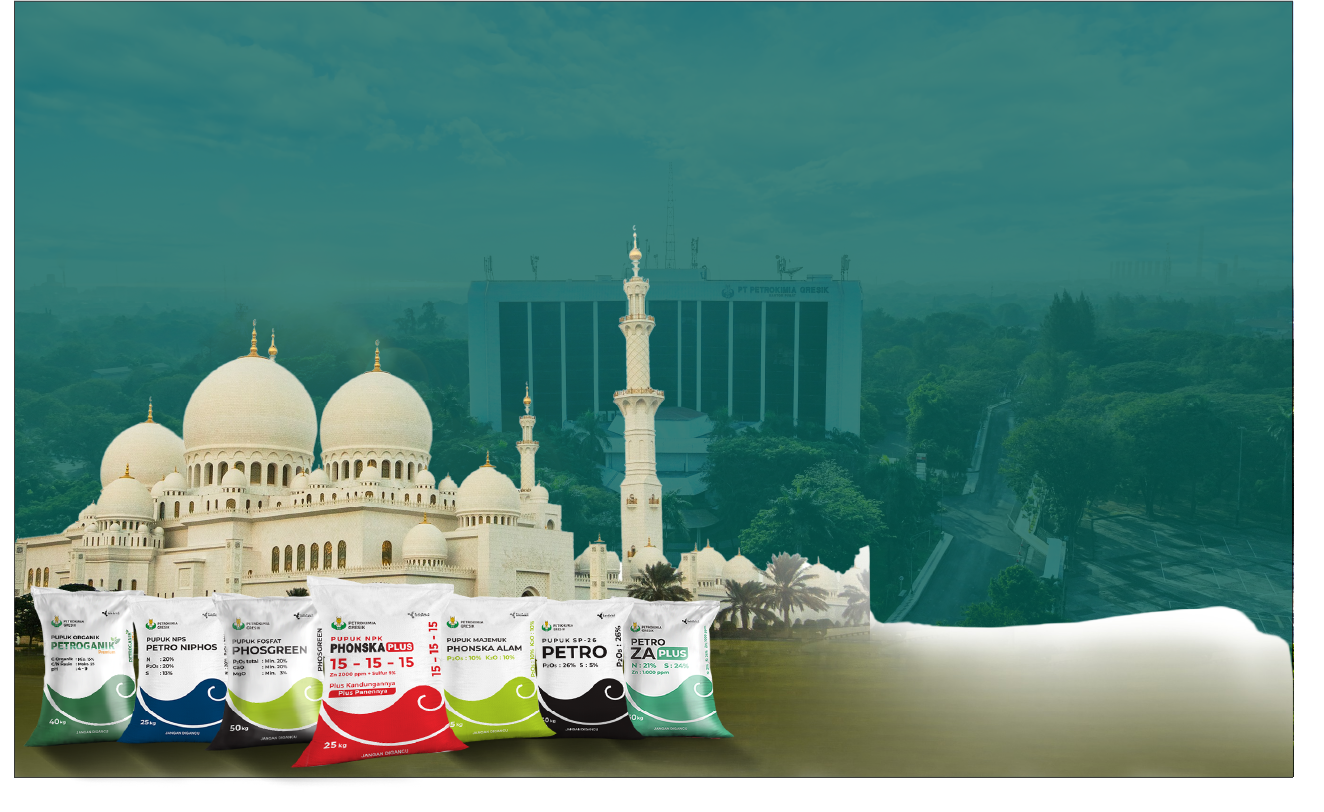
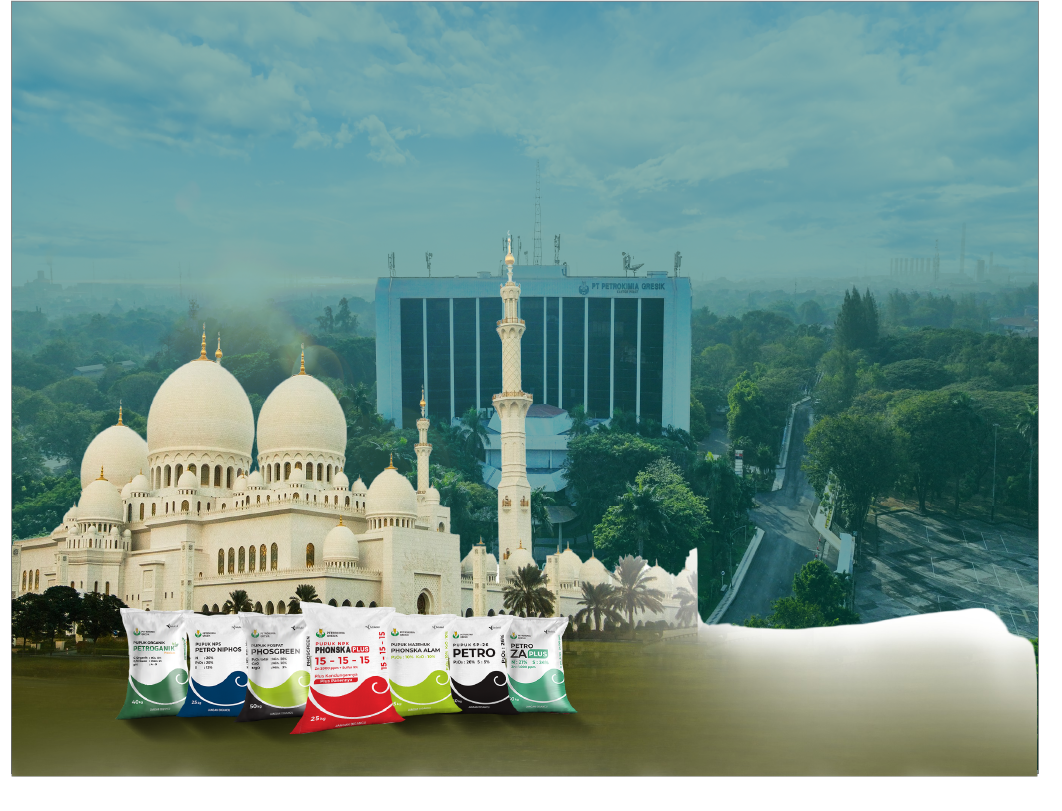
master3

diff --git a/pages/calendar/detail.tsx b/pages/calendar/detail.tsx
@@ -122,7 +122,7 @@ export default function Demo({ data, setModal }: any) {
   const selectedScheduleImage =
     scheduleImage[Math.min(Math.max(page - 1, 0), scheduleImage.length - 1)];
   return (
-  <BackgroundImage src="/background1.png" pr={{xl:"4%", lg:"1%", base:"0%"}} w={{xl:"100%"}}>
+  <BackgroundImage src="/background3.png" pr={{xl:"4%", lg:"1%", base:"0%"}} w={{xl:"100%"}}>
       <Container bg={{xl:"transparent",lg:"transparent", base:"#005E6A"}} w={{lg:"80%", xl:"100%"}}>
             <Container
               pos="relative"
@@ -182,7 +182,7 @@ export default function Demo({ data, setModal }: any) {
                 </Grid.Col>
                 {/* Menggeser Gambar Waktu Shalat */}
                 <Grid.Col span={{ xl: 5, lg: 6, base: 12 }} ml={{xl:"80%", lg:"70%", base:"0%"}}>
-                  <Container ml={{ xl: "22%", lg: "5%", base: "5%" }} w="100%">
+                  <Container ml={{ xl: "22%", lg: "10%", base: "5%" }} w="100%">
                     <Image
                       w={{ xl: "80%", lg: "75%", base: "95%" }}
                       src={selectedDayImage}

diff --git a/pages/calendar/index.tsx b/pages/calendar/index.tsx
@@ -37,8 +37,8 @@ export default function Page() {
     route.push("https://petro.hillindo-digital.com/");
   };
   return (
-  <BackgroundImage src="/DJI_0968-after.jpg"> 
-    <Container fluid bg="#005E6A" opacity="86%">    
+  // <BackgroundImage src="/DJI_0968-after.jpg"> 
+    <Container fluid style={{backgroundImage:"linear-gradient(rgba(0, 94, 106, 0.6),rgba(0, 94, 106, 0.6)),url(/DJI_0968-after.jpg)", backgroundSize:"cover", backgroundPosition:"center"}}>    
       <Container
         pos={{ base: "absolute", xl: "relative" }}
         pl={{ base: "10px", sm: "20px", xs: "lg" }}
@@ -233,6 +233,6 @@ export default function Page() {
         <br />
       </Container>
     </Container>
-  </BackgroundImage>
+  // </BackgroundImage>
   );
 }
